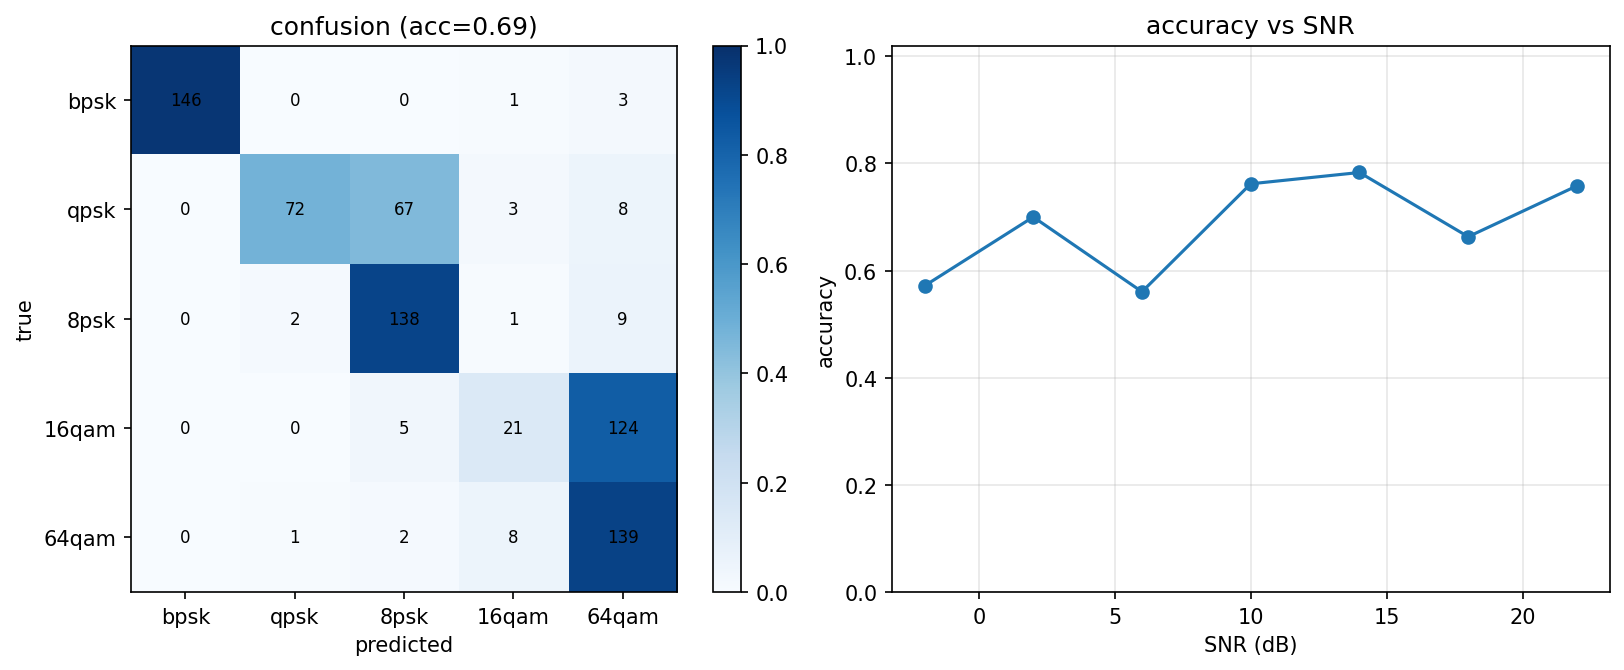
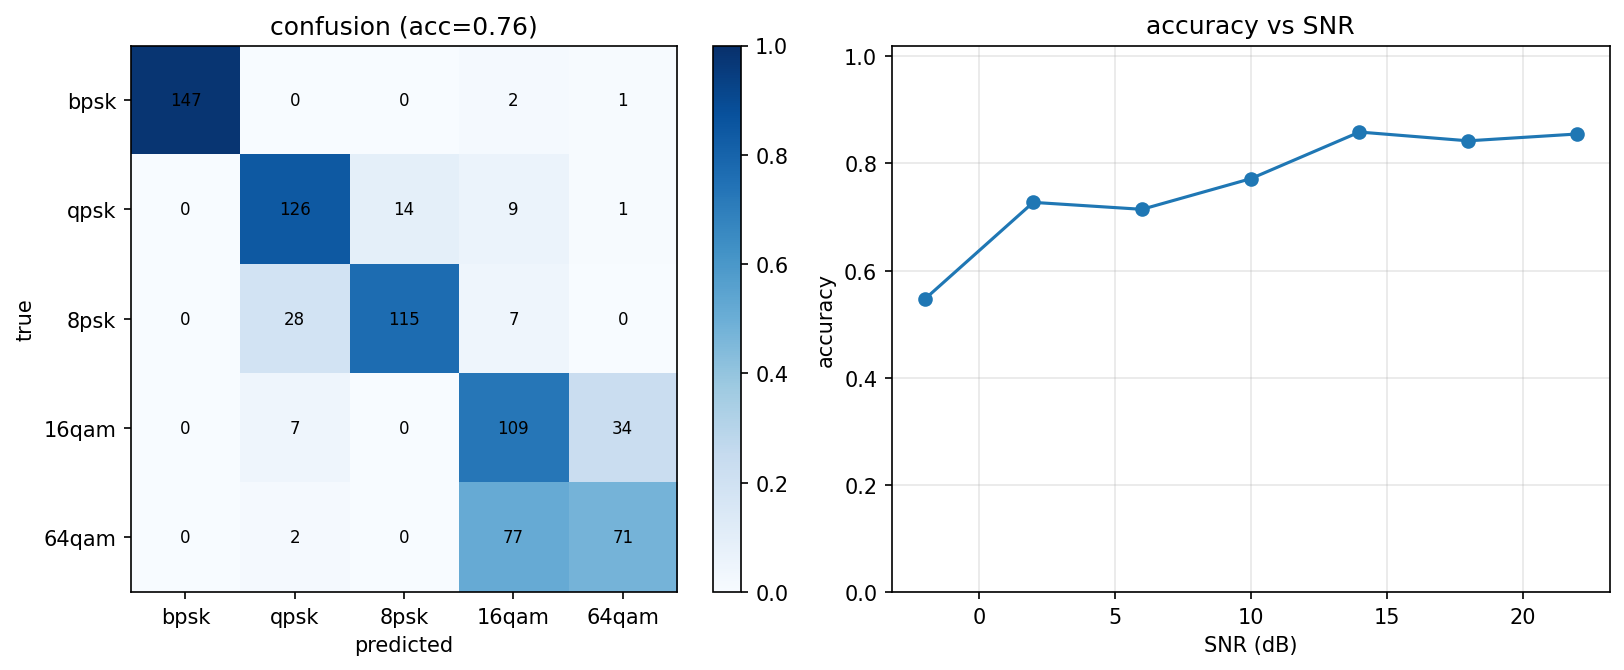
fix(theory): 二轮对抗性审计修正——文档与代码逐条对齐
独立审查会话逐条核查 11 个文档单元（1 critical 已于前轮修复，本轮 9 minor + 28 nit/细节）：
- 01: 信源编码→信道编码; OFDM 参照 5G NR→802.11a 帧结构（README 同步）
- 02: LLR 分母修正——去归一化坐标需 noise_var/scale²（源码修复，原实现各调制系统性偏大 2/scale² 倍，判决不受影响但数值非真 LLR）
- 03: FIR 长度 span·sps（88 抽头）; NR 不规定 RRC 成形; 基带/通带带宽口径分离
- 04: interleave/deinterleave 走读补 pad 参数; 自由距离补 ML 渐近式
- 05: 瑞利抽头方差 10^{-j·d/(10L)}; Σ|h|²=1→期望意义归一; 直视径→视距径
- 06: derotate 公式补 sps 因子; 判决引导相位跟踪正名 DDPLL; ZC 互素条件;
  estimate_channel_ls 真实签名(只返回 h); 整段前导 LS; NR PSS/SSS 非 ZC
- 07: MMSE 目标式补延迟下标 d
- 08: S&C P(d) 共轭约定与 CFO 公式自洽; R(d) 定义; 偏早上界 ≤Ncp-(L-1) 两处;
  平台宽 Ncp-(Lh-1); S&C 仅为演示图（定时靠匹配滤波）; 抽头数与 CP+1 界一致;
  定时抖动→频域线性相位斜坡
- 09: N_tr≥L 恰定/超定; 62 次除法; X^H X; 降秩/DFT 域估计; LS 签名修正
- 10: VT-CNN 2016; 参数量实算 33 万; epoch 18(与 exp05 一致); AdamW;
  恒包络→恒模星座; 代码走读 API 名全部对齐(generate_dataset/AMCNet/train_model/predict);
  CPU 实测数字 69%→76%/高SNR~85%
- qa-handbook: 偏早上界; RML2016.10a 口径; 恒模措辞

验证: ruff 干净; pytest 48/48; mkdocs --strict 通过; amc_results.png 用最新实测重生成

diff --git a/src/phylayer/modulation.py b/src/phylayer/modulation.py
@@ -142,8 +142,10 @@ class Modem:
         gray = _gray_encode(idx)
         shifts = np.arange(width - 1, -1, -1)
         bit_of_level = (gray[None, :] >> shifts[:, None]) & 1  # (width, m_pam)
-        # axis noise variance = noise_var/2; LLR(+=>0) = lse(-d2_0/s2)-lse(-d2_1/s2)
-        axis_var = noise_var / 2.0
+        # d2 is measured in descaled (PAM-level) coordinates, where the
+        # per-axis noise variance is noise_var/(2*scale^2); the LLR exponent
+        # denominator is twice that: noise_var/scale^2.
+        axis_var = noise_var / (self._scale ** 2)
         llr_cols = []
         for b in range(width):
             d2_0 = d2[:, bit_of_level[b] == 0]

diff --git a/docs/modules/06-synchronization.md b/docs/modules/06-synchronization.md
@@ -27,7 +27,7 @@ $$
 z[n]=e^{-j\pi r n^2/N},\qquad n=0,\dots,N-1
 $$
 
-（LTE 主同步序列 PSS 同款）的循环自相关正好是理想冲激：
+（LTE 主同步序列 PSS 同款；要求根指数 $r$ 与长度 $N$ 互素）的循环自相关正好是理想冲激：
 
 $$
 R_{zz}[\tau]=\sum_n z[n]\,z^*[n-\tau]=\begin{cases}N & \tau=0\\0 & \tau\neq0\end{cases}
@@ -80,17 +80,17 @@ $$
 估计的原型）。去模糊范围 $|\Delta f|<1/(64\cdot sps)$，本项目 $8\times10^{-4}$
 远在范围内。
 
-**第 4 步 derotate**：整帧乘 $e^{-j2\pi\hat f k}$ 把残余旋转拧回去。
+**第 4 步 derotate**：符号级整帧乘 $e^{-j2\pi\hat f\,\mathrm{sps}\,k}$（$\hat f$ 单位是 cycles/sample，符号下标要乘 sps）把残余旋转拧回去。
 
-**第 5 步 estimate_channel_ls**：在长前导上解最小二乘 $y=Ph$（$P$ 是下
+**第 5 步 estimate_channel_ls**：在整段前导（短+长）上解最小二乘 $y=Ph$（$P$ 是下
 三角 Toeplitz，因为帧前面没有符号拖尾）。**踩过的坑**：参考信号必须用
 整个前导（短+长）——长前导前面挨着的是短前导不是零，模型里不把短前导
 尾部的泄漏写进去，残差就被当成噪声，$\hat\sigma^2$ 高估一个数量级，
 MMSE 均衡直接退化。
 
-**第 6 步 decision_directed_phase**：判决引导 Costas——逐符号硬判决到
-最近星座点，取残差相位 $\angle(z\cdot d^*)$ 以步长 $\alpha=0.15$ 累进
-跟踪。吃掉 CFO 估计残差和相位噪声这类"慢漂移"。
+**第 6 步 decision_directed_phase**：判决引导相位跟踪（判决反馈环
+DDPLL）——逐符号硬判决到最近星座点，取残差相位 $\angle(z\cdot d^*)$
+以步长 $\alpha=0.15$ 累进跟踪。吃掉 CFO 估计残差和相位噪声这类"慢漂移"。
 
 ## 代码走读（按调用顺序）
 
@@ -100,8 +100,9 @@ i0  = frame_detect(rx_wave, pre.short)       # 波形级互相关取峰 + 4*sps 
 z, d0 = locate_preamble(...)                # 相位网格搜索 + 首径定位
 fhat = estimate_cfo(rx_short, 32, sps)      # Moose: 两段相关取相角
 z = derotate(z, fhat)                       # 反旋转
-h, s2 = estimate_channel_ls(pre_rx, pre_tx) # Toeplitz lstsq
-z = decision_directed_phase(eq_out, modem.nearest)  # Costas 残余相位跟踪
+h = estimate_channel_ls(pre_rx, pre_tx, n_taps)  # Toeplitz lstsq, 只返回 h
+noise_var = mean(|pre_rx - conv(pre_tx, h)[:N]|^2)  # 拟合残差估计噪声方差
+z = decision_directed_phase(eq_out, modem.nearest)  # DDPLL 残余相位跟踪
 ```
 
 ## 面试可能怎么问
@@ -109,8 +110,10 @@ z = decision_directed_phase(eq_out, modem.nearest)  # Costas 残余相位跟踪
 - **为什么同步要分粗/细两级？** 粗同步要"弱信号也能检测到帧"（波形级
   匹配滤波，采样点精度）；细同步要"每个符号采在最佳点"（符号相位精度）。
   一个模块同时满足两者成本高、鲁棒差，所以分级。
-- **为什么 LTE/5G 都用 ZC 序列做同步？** 理想循环自相关 + 恒定包络 +
-  频域平坦（可兼作信道估计训练序列），还天然区分多径。
+- **为什么 LTE 用 ZC 序列做同步？** 理想循环自相关 + 恒定包络 +
+  频域平坦（可兼作信道估计训练序列），还天然区分多径——LTE PSS 就是
+  ZC63。注意 5G NR 的 PSS/SSS 用的是 m 序列/Gold 序列；NR 里 ZC 用在
+  PRACH 前导、DFT-s-OFDM 的 DM-RS 等处。
 - **CFO 估计的两段重复前导为什么好用？** 两段相同结构在 CFO 下的相位差
   正比于频偏和间距，一除就出来——Moose 方法，802.11a 的 CFO 原型。
 - **符号定时偏差一点点会怎样？** 在匹配滤波输出上采错位置 → 收的不是
@@ -118,7 +121,8 @@ z = decision_directed_phase(eq_out, modem.nearest)  # Costas 残余相位跟踪
 - **细同步找首径还是最强径？** 首径（帧起点语义）。最强径只是信道最强
   抽头，跟"帧从哪开始"不是一回事。
 - **CFO 大到超出模糊范围怎么办？** 先用更短的重复结构（间隔短 → 模糊
-  范围大）粗估，再细估——多级 CFO 估计，LTE 的 PSS/SSS 就是这个思路。
+  范围大）粗估，再细估——先粗后细的多级估计思路，LTE 同步也是这么
+  分层的（PSS/SSS 粗定时与粗 CFO，CP 相关与 CRS 做细跟踪）。
 - **为什么判决引导相位跟踪不会跑偏？** 判决正确时残差相位就是真实漂移
   的无偏估计；只要判决错误率不太高、漂移比符号率慢（CFO 残差/相位噪声
   满足），小步长累进就稳。这是**自适应均衡**思想的简化版。

diff --git a/docs/modules/05-channels.md b/docs/modules/05-channels.md
@@ -42,17 +42,18 @@ $$
 y[k]=\sum_{j=0}^{L-1} h_j\,x[k-j]
 $$
 
-**瑞利信道**（无直视径，全是散射）：每根抽头是独立圆对称复高斯
+**瑞利信道**（无视距径，全是散射）：每根抽头是独立圆对称复高斯
 
 $$
-h_j\sim\mathcal{CN}\!\left(0,\;10^{-j\cdot d/10}\right),\qquad \sum_j|h_j|^2=1
+h_j\sim\mathcal{CN}\!\left(0,\;10^{-j\cdot d/(10L)}\right),\qquad \mathbb{E}\!\left[\sum_j|h_j|^2\right]=1
 $$
 
-指数衰减功率剖面（`decay_db` 控制拖尾衰减速度），总功率归一（把"衰落"
+指数衰减功率剖面（`decay_db` 控制拖尾衰减速度，末抽头功率约比首抽头低
+$d$ dB），总功率在期望意义下归一（单次实现围绕 1 随机起伏——把"衰落"
 和"路径损耗"分开）。每径幅度 $|h_j|$ 服从瑞利分布，合成增益随机起伏——
 这就是**衰落**；各频率分量衰减不同——这就是**频率选择性**。
 
-**莱斯信道**（有直视径 LOS）：`rician_taps` 在主径上叠加一个确定性分量，
+**莱斯信道**（有视距径 LOS）：`rician_taps` 在主径上叠加一个确定性分量，
 $K$ 因子 = LOS 功率 / 散射功率。$K\to\infty$ 退化为 AWGN，$K=0$ 退化为
 瑞利——莱斯是把 AWGN 和瑞利连成谱的一般化模型。
 
@@ -101,7 +102,7 @@ y = awgn(y, snr_for_waveform(snr_db, sps), r)        # 最后加接收机噪声
 
 ## 面试可能怎么问
 
-- **瑞利 vs 莱斯信道何时用？** 有直视径用莱斯（$K$ 大趋近 AWGN），全是
+- **瑞利 vs 莱斯信道何时用？** 有视距径用莱斯（$K$ 大趋近 AWGN），全是
   散射用瑞利（$K=0$ 极限）。瑞利下 $|h|^2$ 指数分布，
   $P(|h|^2<t)=1-e^{-t}$——可以算出深衰落概率，比如 $|h|^2<0.1$（-10dB）
   的概率约 9.5%。

diff --git a/docs/modules/03-pulse-shaping.md b/docs/modules/03-pulse-shaping.md
@@ -73,7 +73,7 @@ $$
 
 这就是**根升余弦 RRC**。发射 RRC → 信道 → 接收 RRC，级联 $|RRC|^2=RC$
 恰好无 ISI，同时接收端实现了匹配滤波、输出信噪比最优。"根号"就是这么来的；
-5G NR、WCDMA、DVB-S2 全是这个做法。
+WCDMA、DVB-S2 等标准把 RRC 直接写进了规范；5G NR 不规定发送成形，工程上多用加窗或 RRC 类滤波实现。
 
 ### 匹配滤波为什么最优（柯西-施瓦茨一句话证明）
 
@@ -99,7 +99,7 @@ $$
 
 ### 另外两个实现细节
 
-1. **群延迟**：FIR 滤波器长度 span·sps+1，卷积使输出整体延后
+1. **群延迟**：FIR 滤波器长度 span·sps（本项目 11×8=88 抽头），卷积使输出整体延后
    `(len(h)-1)/2` 个样点（对称 FIR 的群延迟）；级联两个 RRC 共延后
    `len(h)-1`，所以接收端要 `y[len(h)-1 :: sps]` 才对齐到符号中心。
 2. **SNR 换算**：波形按 sps 过采样后，每个采样点平均分到 $E_s/\mathrm{sps}$
@@ -136,5 +136,6 @@ z = y[len(h)-1 :: sps]                    # 补偿群延迟后按符号率抽取
 - **眼图是什么？** 把波形按 1–2 个符号周期切片叠画；眼睛张开度同时反映
   定时余量、噪声余量和 ISI 大小。ISI 会让"眼皮"变厚、眼高变窄。
 - **奈奎斯特带宽是多少？** 符号率 $R_s=1/T_s$ 的基带信号最小无 ISI 带宽
-  是 $R_s/2$（升余弦取 $(1+\beta)R_s/2$）。由此可算频谱效率：
+  是 $R_s/2$（升余弦取 $(1+\beta)R_s/2$——这是基带单边口径；实通带信号
+  双边占用 $(1+\beta)R_s$）。按通带口径算频谱效率 $\eta=\log_2 M/(1+\beta)$：
   QPSK+RRC(β=0.35) 约 $2/1.35\approx1.48$ bit/s/Hz。

diff --git a/docs/modules/01-overview.md b/docs/modules/01-overview.md
@@ -6,7 +6,7 @@
 
 一句话版本（可直接用于自我介绍）：
 
-> "我用 Python 从零实现了一套数字通信物理层仿真平台：从信源编码、调制、成型滤波，到多径信道、定时同步、载波同步、信道估计与均衡，链路误码率全程与理论曲线对齐；在此之上还实现了 OFDM 收发机（参照 5G NR 参数）和基于深度学习的自动调制识别。"
+> "我用 Python 从零实现了一套数字通信物理层仿真平台：从信道编码、调制、成型滤波，到多径信道、定时同步、载波同步、信道估计与均衡，链路误码率全程与理论曲线对齐；在此之上还实现了 OFDM 收发机（参照 802.11a 帧结构）和基于深度学习的自动调制识别。"
 
 ## 先建立物理图像：信号一路上经历了什么
 

diff --git a/README.md b/README.md
@@ -2,7 +2,7 @@
 
 纯 Python(NumPy/SciPy)实现的**数字通信物理层全链路仿真平台**，外加一个
 **深度学习自动调制识别(AMC)** 模块。覆盖：信道编码、数字调制、脉冲成型、
-同步、均衡、OFDM(5G NR 风格参数)、信道估计，以及基于 1D-ResNet 的 I/Q
+同步、均衡、OFDM(802.11a 风格帧结构)、信道估计，以及基于 1D-ResNet 的 I/Q
 调制分类。
 
 讲解文档站(逐模块原理 → 代码走读 → 面试问答)：<https://yzml1507.github.io/phy-layer-sim-amc/>

diff --git a/docs/modules/07-equalization.md b/docs/modules/07-equalization.md
@@ -30,7 +30,7 @@ enhancement）——ISI 消干净了，信噪比却塌了。
 **MMSE（最小均方误差）**：最小化
 
 $$
-E\big|w*y - x\big|^2
+E\big|(w*y)[k] - x[k-d]\big|^2
 $$
 
 即不光消 ISI，还把"噪声被放大"这件事纳入代价一起优化。正规方程解：
